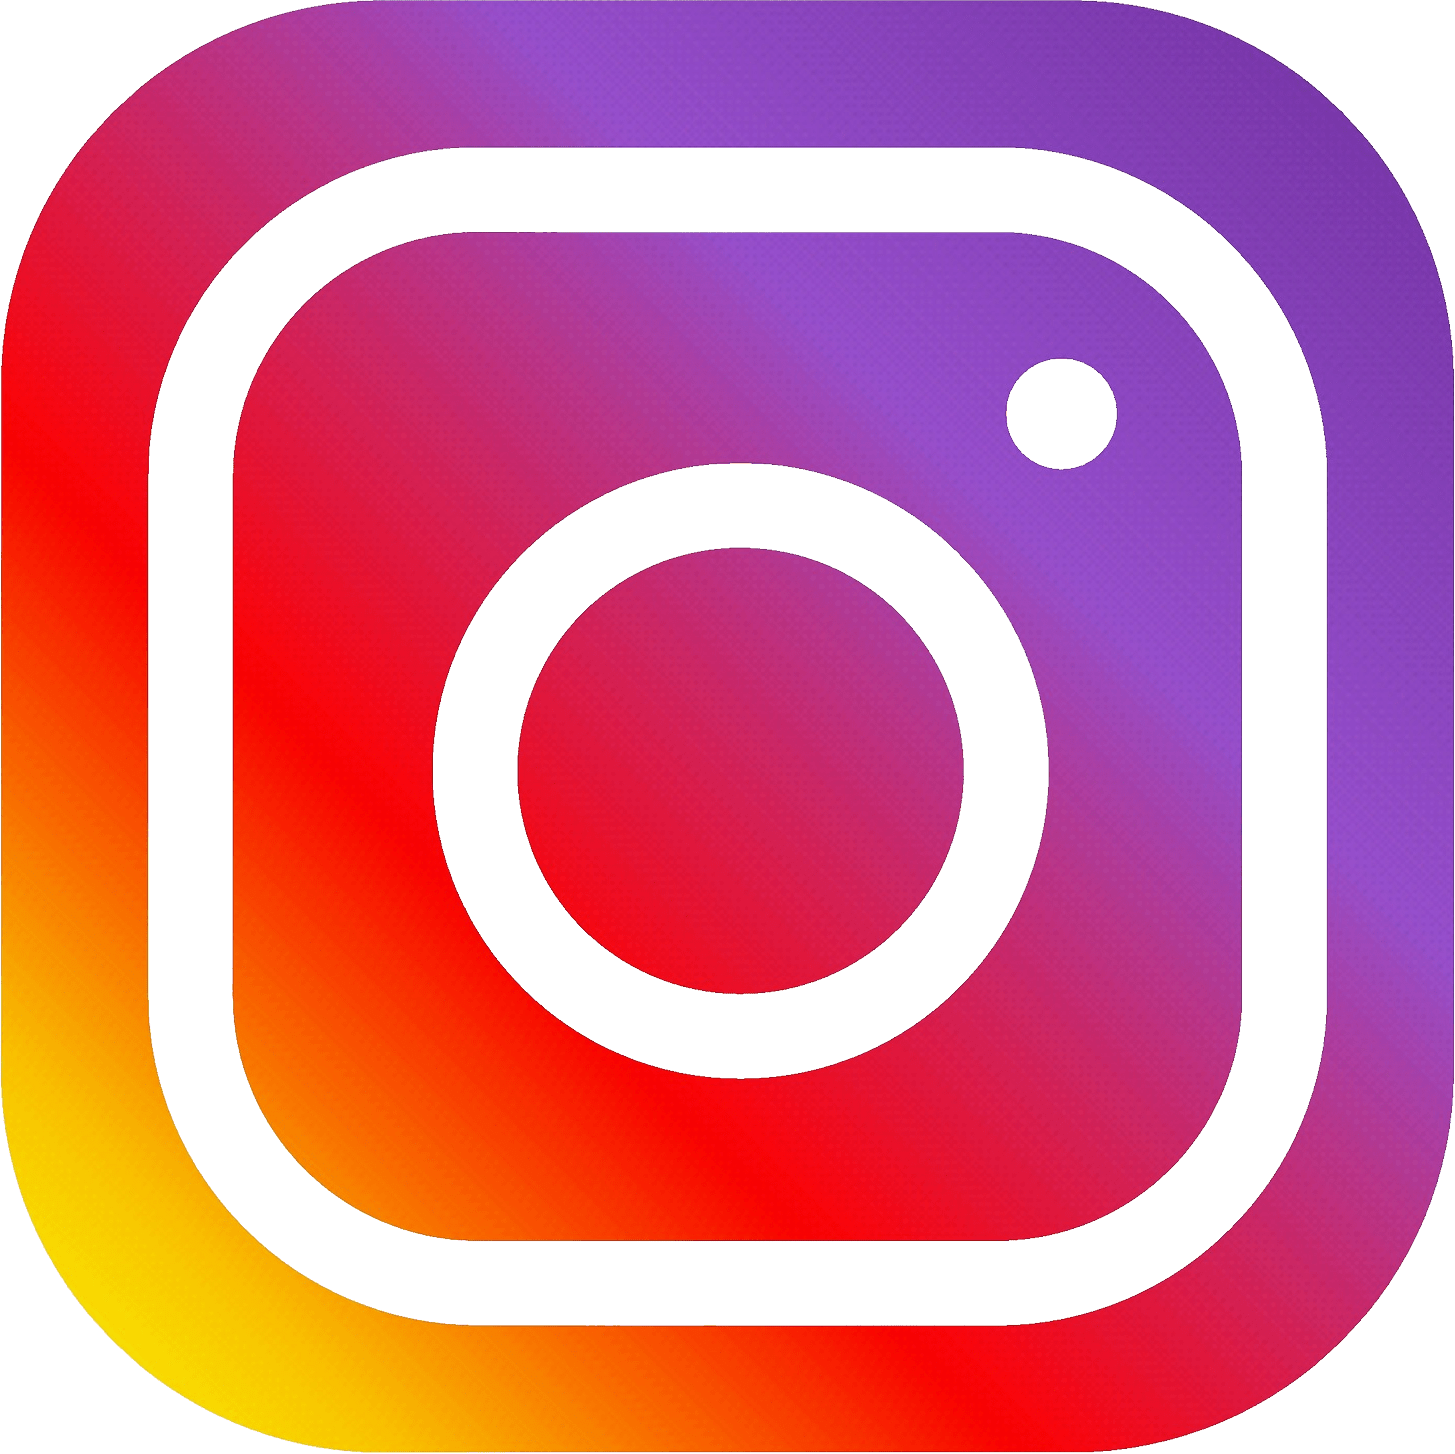
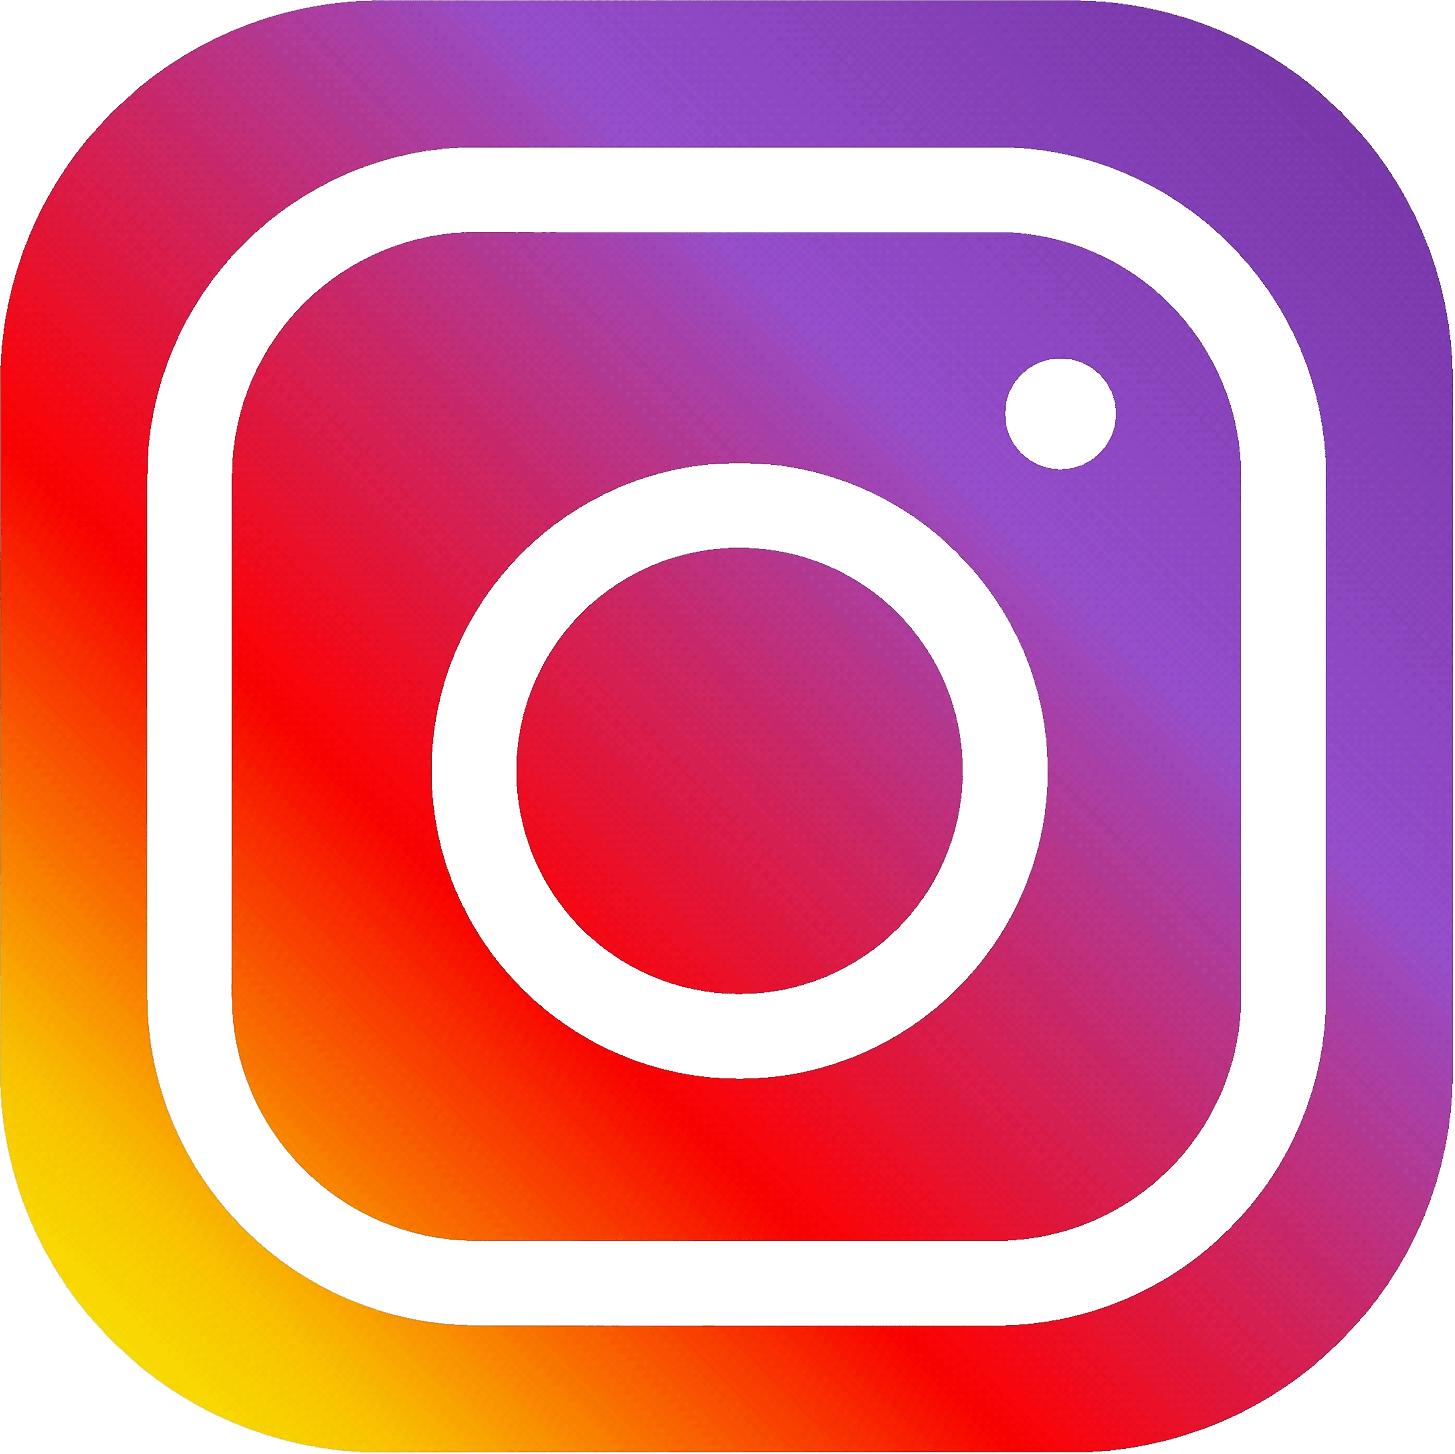
update

Changed region(s): [[0.9897, 0.1857, 1.0, 0.8047]]

diff --git a/layouts/_default/baseof.html b/layouts/_default/baseof.html
@@ -120,9 +120,7 @@
   
         <div class="some-container">
             <a href="https://www.facebook.com/oelstue" target="_blank"><img src="/images/facebook.png" class="social-icon" alt="Facebook"></a>
-            <div class="icon-bg">
-                <a href="https://www.instagram.com/richters_oelstue/?hl=da" target="_blank"><img src="/images/instagram.png" class="social-icon" alt="Instagram"></a>
-            </div>
+            <a href="https://www.instagram.com/richters_oelstue/?hl=da" target="_blank"><img src="/images/instagram.png" class="social-icon" alt="Instagram"></a>
         </div>
     </div>
 </footer>

diff --git a/layouts/_default/index.html b/layouts/_default/index.html
@@ -257,9 +257,7 @@
   
         <div class="some-container">
             <a href="https://www.facebook.com/oelstue" target="_blank"><img src="/images/facebook.png" class="social-icon" alt="Facebook"></a>
-            <div class="icon-bg">
-                <a href="https://www.instagram.com/richters_oelstue/?hl=da" target="_blank"><img src="/images/instagram.png" class="social-icon" alt="Instagram"></a>
-            </div>
+            <a href="https://www.instagram.com/richters_oelstue/?hl=da" target="_blank"><img src="/images/instagram.png" class="social-icon" alt="Instagram"></a>
         </div>
     </div>
 </footer>

diff --git a/static/css/headerfooter.css b/static/css/headerfooter.css
@@ -567,20 +567,25 @@ h3 {
     margin-top: 10px;
 }
 
-.icon-bg {
-    background-color: white;
-    width: 20px;
-    height: 20px;
-    padding-top: 15px;
-    padding-bottom: 25px;
-    padding-left: 20px;
-    padding-right: 20px;
-    margin-top: 10px;
-    display: flex;
-    justify-content: center;
-    align-items: center;
-    border-radius: 10px;
-}
+
+
+
+
+
+
+
+
+
+
+
+
+
+
+
+
+
+
+
 
 
 

diff --git a/static/css/contact.css b/static/css/contact.css
@@ -2,10 +2,6 @@ h2, h3, p {
     font-family: bilo, sans-serif;
 }
 
-h1 {
-    font-family: bilo, sans-serif;
-}
-
 
 .contact-header {
     color: rgb(255, 255, 255);

diff --git a/static/css/index.css b/static/css/index.css
@@ -321,3 +321,9 @@ body {
     background-color:rgb(255, 255, 255);
   }
 }
+
+
+
+.social-icon {
+  margin-left: -50px;  /* Adjust margin as needed */
+}

diff --git a/static/css/baseof.css b/static/css/baseof.css
@@ -45,9 +45,3 @@ img {
     max-width: 100%;
 }
 
-
-
-
-.social-icon {
-    margin-left: 0px;  /* Adjust margin as needed */
-}
